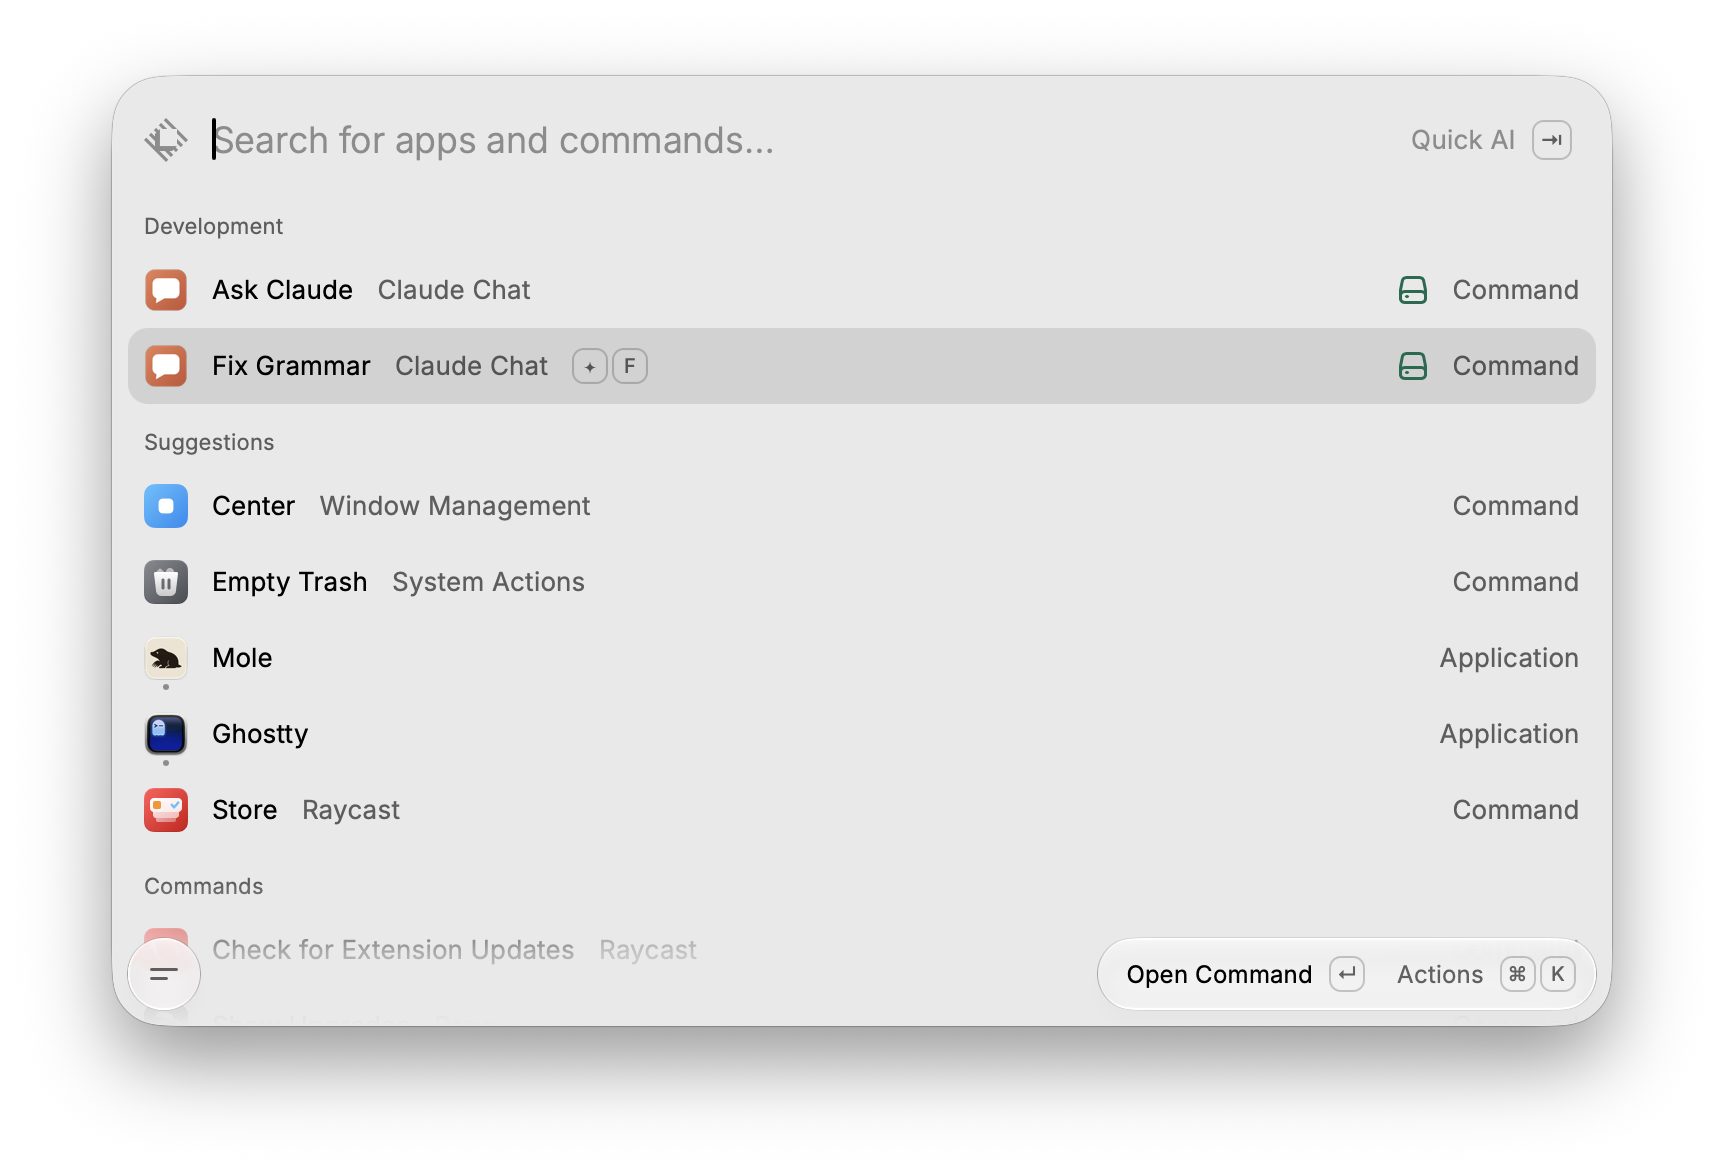
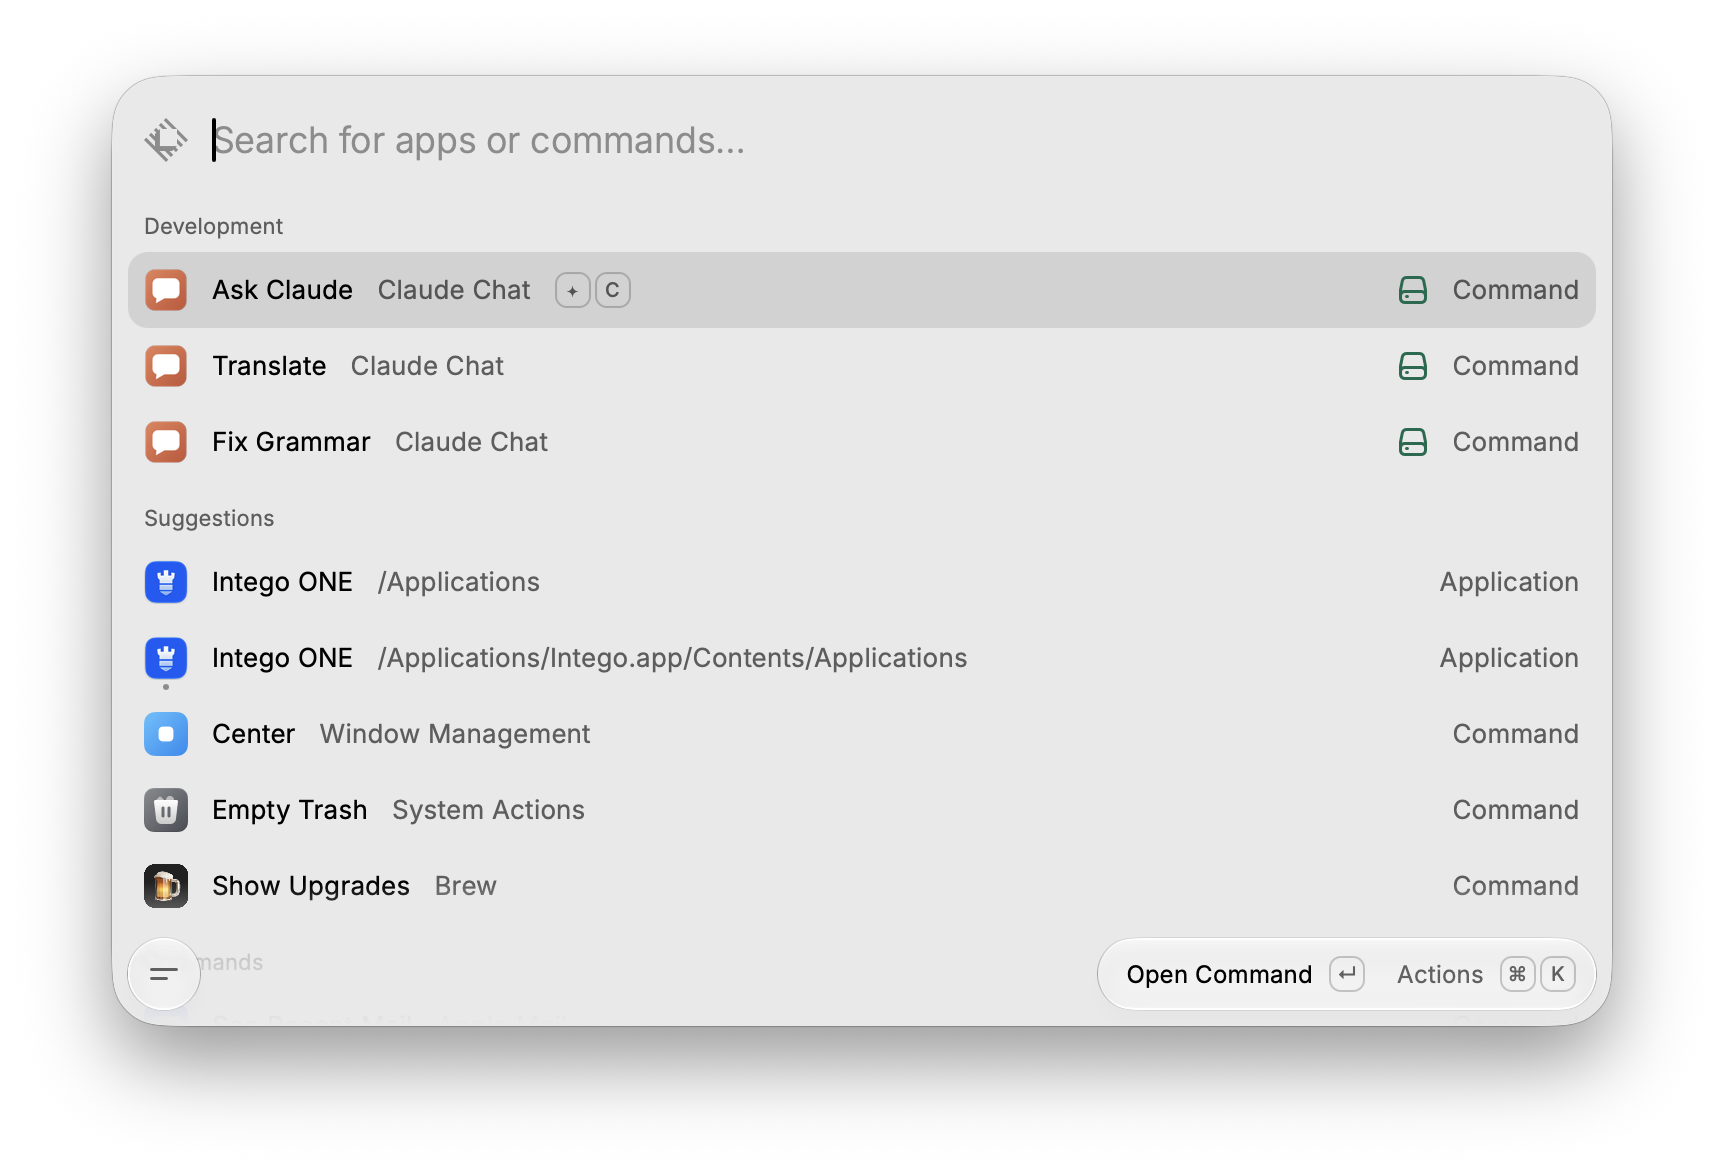
v1.1.0: Translate command
- New Translate command: select text anywhere and Ask Claude opens on a
  new conversation translating it into the Target Language (French by
  default), so the result can be refined by chatting. Without a
  selection, the instruction is prefilled in the search bar. It has its
  own model and effort settings (Sonnet and Low by default)
- Translations are marked with a globe icon in the conversation list
- A conversation created at launch stays selected: the selection is
  asked again when Raycast overrides it, and the List loading state is
  no longer used
- The history is saved when the chat closes mid-answer
- Homogeneous preferences across the three commands
- README and screenshots updated

diff --git a/src/ask-claude.tsx b/src/ask-claude.tsx
@@ -19,13 +19,24 @@ import {
 import { useEffect, useRef, useState } from "react";
 import { ClaudeError, RunHandle, runClaude } from "./lib/claude-cli";
 import { conversationTitle, conversationToMarkdown, threadMarkdown, transcriptPrompt } from "./lib/markdown";
-import { Conversation, Turn, loadConversations, newConversation, newTurn, saveConversations } from "./lib/storage";
+import {
+  ChatLaunch,
+  Conversation,
+  Turn,
+  loadConversations,
+  newConversation,
+  newTurn,
+  saveConversations,
+} from "./lib/storage";
 
 const SYSTEM_PROMPT =
   "You are Claude, a helpful AI assistant made by Anthropic. The user is chatting with you from Raycast, a macOS launcher. " +
-  "Format answers in Markdown. Be clear and reasonably concise. Reply in the language the user writes in.";
+  "Format answers in Markdown. Be clear and reasonably concise. Reply in the language the user writes in. " +
+  "When asked to translate a text, reply with the translation only, unless asked for more.";
 
 const RENDER_THROTTLE_MS = 80;
+// How long after creating a conversation a selection reported by Raycast is treated as its own, not the user's.
+const PIN_MS = 1000;
 
 const WELCOME =
   "## New conversation\n\n" +
@@ -63,15 +74,22 @@ function errorMarkdown(error: unknown, hasToken: boolean): string {
   return `${help}\n\n\`\`\`\n${error.message}\n\`\`\``;
 }
 
-export default function AskClaude(props: LaunchProps) {
+export default function AskClaude(props: LaunchProps<{ launchContext?: ChatLaunch }>) {
   const preferences = getPreferenceValues<Preferences.AskClaude>();
   const [conversations, setConversations] = useState<Conversation[]>([]);
+  // Not passed to List as isLoading: Raycast ignores selection changes made while loading. Loading takes milliseconds.
   const [isLoaded, setIsLoaded] = useState(false);
   const [currentId, setCurrentId] = useState(NEW_ID);
   const [searchText, setSearchText] = useState("");
   const [streamingTurnId, setStreamingTurnId] = useState<string>();
   const [status, setStatus] = useState<string>();
   const runRef = useRef<RunHandle>(undefined);
+  // Translate's launch (kind, model, effort), applied to the next conversation created, typed or sent at launch.
+  const pendingLaunch = useRef(props.launchContext);
+  // A conversation just created and selected by code, and until when Raycast may still override that selection.
+  const pinned = useRef<{ id: string; until: number }>(undefined);
+  const latest = useRef(conversations);
+  latest.current = conversations;
 
   const current = conversations.find((c) => c.id === currentId);
 
@@ -80,11 +98,21 @@ export default function AskClaude(props: LaunchProps) {
     loadConversations().then((stored) => {
       setConversations(stored);
       setIsLoaded(true);
-      const fallback = props.fallbackText?.trim();
-      if (fallback) send(fallback);
     });
-    return () => runRef.current?.abort();
+    return () => {
+      runRef.current?.abort();
+      // Saving normally waits for the answer to end; closing the chat mid-answer (e.g. a new Translate) mustn't lose it.
+      if (latest.current.length > 0) saveConversations(latest.current);
+    };
   }, []);
+
+  // Send the launch message (from Translate or a fallback search) once the history is loaded.
+  useEffect(() => {
+    if (!isLoaded) return;
+    const prompt = props.launchContext?.prompt ?? props.fallbackText?.trim();
+    if (prompt) send(prompt);
+    else if (props.launchContext?.draft) setSearchText(props.launchContext.draft);
+  }, [isLoaded]);
 
   // Persist outside of streaming: saving on every token would be wasteful.
   useEffect(() => {
@@ -107,13 +135,16 @@ export default function AskClaude(props: LaunchProps) {
     }
     const turn = newTurn(prompt);
     const previousTurns = existing?.turns.filter((t) => t.id !== retryTurnId) ?? [];
-    const conversation = existing ?? newConversation(turn);
+    const launch = existing ? undefined : pendingLaunch.current;
+    if (!existing) pendingLaunch.current = undefined;
+    const conversation = existing ?? newConversation(turn, launch?.kind);
     if (existing) {
       update(conversation.id, () => ({ turns: [...previousTurns, turn] }));
     } else {
       // Newest first; replies don't reorder, so the list never shifts under the selection.
       setConversations((list) => [conversation, ...list]);
       setCurrentId(conversation.id);
+      pinned.current = { id: conversation.id, until: Date.now() + PIN_MS };
     }
     setSearchText("");
     setStreamingTurnId(turn.id);
@@ -136,8 +167,8 @@ export default function AskClaude(props: LaunchProps) {
           prompt: text,
           cwd: environment.supportPath,
           sessionId,
-          model: preferences.model,
-          effort: preferences.effort,
+          model: launch?.model ?? preferences.model,
+          effort: launch?.effort ?? preferences.effort,
           systemPrompt: `${SYSTEM_PROMPT}\n\n${currentContext()}`,
           // Terminals often insert spaces or line breaks when copying the wrapped token.
           oauthToken: preferences.oauthToken?.replace(/\s+/g, ""),
@@ -276,15 +307,16 @@ export default function AskClaude(props: LaunchProps) {
 
   function icon(conversation: Conversation) {
     const lastTurn = conversation.turns.at(-1);
-    if (lastTurn?.id === streamingTurnId) return { source: Icon.SpeechBubbleActive, tintColor: Color.Orange };
+    const isTranslation = conversation.kind === "translate";
+    if (lastTurn?.id === streamingTurnId) {
+      return { source: isTranslation ? Icon.Globe : Icon.SpeechBubbleActive, tintColor: Color.Orange };
+    }
     if (lastTurn?.error && !lastTurn.answer) return { source: Icon.ExclamationMark, tintColor: Color.Red };
-    return Icon.Bubble;
+    return isTranslation ? Icon.Globe : Icon.Bubble;
   }
 
   return (
     <List
-      // Not tied to streaming: Raycast ignores selection changes made while loading, then reselects the first item.
-      isLoading={!isLoaded}
       filtering={false}
       searchText={searchText}
       onSearchTextChange={setSearchText}
@@ -292,7 +324,15 @@ export default function AskClaude(props: LaunchProps) {
       navigationTitle={["Claude", modelName(preferences.model)].filter(Boolean).join(" · ")}
       isShowingDetail
       selectedItemId={currentId}
-      onSelectionChange={(id) => id && setCurrentId(id)}
+      onSelectionChange={(id) => {
+        if (!id) return;
+        setCurrentId(id);
+        // When a conversation is created without the search text changing (Translate), Raycast keeps its previous
+        // selection and reports it. Asking again, once the list has settled, makes it select the new conversation.
+        const pin = pinned.current;
+        pinned.current = undefined;
+        if (pin && id !== pin.id && Date.now() < pin.until) setTimeout(() => setCurrentId(pin.id), 50);
+      }}
     >
       <List.Item
         id={NEW_ID}

diff --git a/src/translate.ts b/src/translate.ts
@@ -1,0 +1,18 @@
+import { LaunchType, getPreferenceValues, getSelectedText, launchCommand } from "@raycast/api";
+import { ChatLaunch } from "./lib/storage";
+
+// A no-view command, so it runs (and reads the selection) on every launch: Raycast would just reshow a recent view.
+// It opens Ask Claude on a new translation conversation, so the result can be refined by chatting.
+export default async function Translate() {
+  const { targetLanguage, model, effort } = getPreferenceValues<Preferences.Translate>();
+  const instruction = `Translate into ${targetLanguage?.trim() || "French"}:`;
+  const text = await getSelectedText().then(
+    (selection) => selection.trim(),
+    () => "",
+  );
+  // Without a selection, the instruction is prefilled in the search bar so the text can be typed or pasted.
+  const context: ChatLaunch = { kind: "translate", model, effort };
+  if (text) context.prompt = `${instruction}\n\n${text}`;
+  else context.draft = `${instruction} `;
+  await launchCommand({ name: "ask-claude", type: LaunchType.UserInitiated, context });
+}

diff --git a/src/lib/storage.ts b/src/lib/storage.ts
@@ -13,12 +13,28 @@ export interface Conversation {
   id: string;
   // Claude Code session used with `--resume` so the CLI keeps the context between turns.
   sessionId?: string;
+  // Conversations started by the Translate command get their own icon in the list.
+  kind?: "translate";
   turns: Turn[];
+}
+
+// What Translate hands to Ask Claude: a message to send (or text to prefill the search bar with) and the model and
+// effort to answer it with.
+export interface ChatLaunch {
+  prompt?: string;
+  draft?: string;
+  kind?: Conversation["kind"];
+  model?: string;
+  effort?: string;
 }
 
 const STORAGE_KEY = "conversations";
 
-export const newConversation = (firstTurn: Turn): Conversation => ({ id: randomUUID(), turns: [firstTurn] });
+export const newConversation = (firstTurn: Turn, kind?: Conversation["kind"]): Conversation => ({
+  id: randomUUID(),
+  kind,
+  turns: [firstTurn],
+});
 
 export const newTurn = (prompt: string): Turn => ({ id: randomUUID(), prompt, answer: "" });
 

diff --git a/src/fix-grammar.ts b/src/fix-grammar.ts
@@ -61,8 +61,9 @@ export default async function FixGrammar() {
 }
 
 function failureMessage(error: unknown, hasToken: boolean): string {
-  if (error instanceof ClaudeError && error.kind === "aborted")
+  if (error instanceof ClaudeError && error.kind === "aborted") {
     return `Fix timed out after ${TIMEOUT_MS / 1000} seconds`;
+  }
   if (error instanceof ClaudeError && error.kind === "auth") {
     return hasToken
       ? "Claude rejected the OAuth token: create a new one with claude setup-token"

diff --git a/README.md b/README.md
@@ -2,11 +2,11 @@
 
 # Claude Chat for Raycast
 
-Chat with Claude from Raycast on your **Claude Pro or Max subscription**, without an API key.
+Chat with Claude, translate and fix grammar from Raycast on your **Claude Pro or Max subscription**, without an API key.
 The extension runs the official [Claude Code](https://code.claude.com) CLI in headless mode (`claude -p`), so usage counts toward your plan's limits, never per-token API billing.
 
 > [!IMPORTANT]
-> This is an unofficial extension and it isn't published on the Raycast Store, where it would most likely be rejected: it lets you chat with Claude without an API key or a Raycast Pro subscription, and its Fix Grammar command recreates Raycast's own Fix Spelling and Grammar AI command. It works with a free Raycast account.
+> This is an unofficial extension and it isn't published on the Raycast Store, where it would most likely be rejected: it lets you chat with Claude without an API key or a Raycast Pro subscription, and its Translate and Fix Grammar commands recreate Raycast's own Translator and Fix Spelling and Grammar AI command. It works with a free Raycast account.
 
 ![Ask Claude: conversations on the left, the selected one on the right](media/chat.png)
 
@@ -14,9 +14,10 @@ The extension runs the official [Claude Code](https://code.claude.com) CLI in he
 
 - **Ask Claude**: a chat with your conversation history. Conversations are listed on the left, the selected one on the right (latest exchange first). Type in the search bar and press `↵`. Web search is available.
   `⌘N` new conversation · `⌘.` stop · `⌘⇧C` copy the conversation · `⌘⇧V` paste the last answer · `⌃X` delete the conversation.
+- **Translate**: select text in any app and run the command (give it a hotkey). The chat opens on a new conversation that translates it into your **Target Language** (French by default, any language works), with its own model and effort settings (Sonnet and Low by default, for speed). Since it's a chat, you can follow up: "in Spanish instead", "more formal"… Without a selection, the chat opens with the instruction ready for you to type or paste a text. Translations are marked with their own icon in the conversation list.
 - **Fix Grammar**: select text in any app and run the command (give it a hotkey). The corrected text replaces the selection without opening Raycast, in about a second. It uses Raycast's own Fix Spelling and Grammar prompt, with Haiku by default.
 
-![Both commands in Raycast's root search](media/commands.png)
+![The three commands in Raycast's root search](media/commands.png)
 
 ## Requirements
 
@@ -43,7 +44,7 @@ claude setup-token
 
 Approve access in the browser and copy the whole `sk-ant-oat01-…` token (some terminals add spaces when copying; they are stripped). The token is valid for one year and can be revoked in claude.ai → Settings → Claude Code → Authorization tokens. Raycast stores it encrypted; it never leaves your Mac except to authenticate with Anthropic.
 
-<p align="center"><img src="media/preferences.png" width="550" alt="Extension preferences: OAuth token, then model and effort per command"></p>
+<p align="center"><img src="media/preferences.png" width="550" alt="Extension preferences: the OAuth token, then the settings of each command"></p>
 
 ## How it works
 
